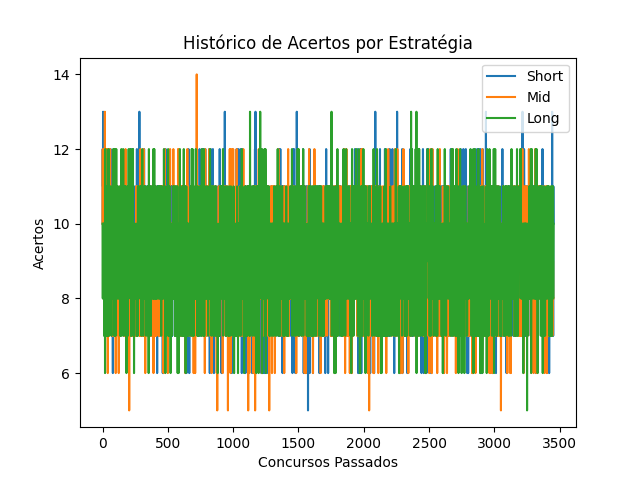
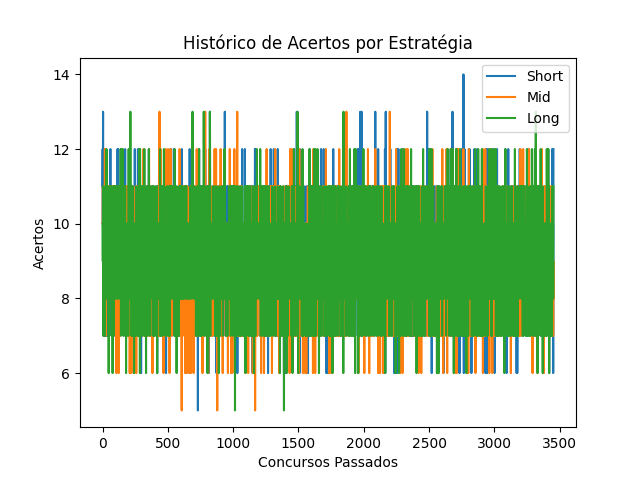
Atualiza relatório e gráficos da Lotofácil

Changed region(s): [[0.1562, 0.1562, 0.875, 0.4688], [0.1562, 0.625, 0.875, 0.875]]

diff --git a/Lotofacil/docs/index.md b/Lotofacil/docs/index.md
@@ -2,9 +2,9 @@
 1, 2, 3, 4, 5, 9, 10, 11, 12, 13, 14, 20, 22, 24, 25
 
 ## 🎯 Palpites Gerados
-- Curto Prazo (últimos 5): [1, 4, 6, 8, 9, 10, 11, 12, 13, 16, 19, 20, 23, 24, 25]
-- Médio Prazo (últimos 75): [1, 5, 6, 7, 8, 10, 11, 13, 14, 16, 17, 19, 20, 23, 24]
-- Longo Prazo (todos): [1, 2, 3, 4, 5, 10, 11, 12, 13, 14, 15, 20, 22, 24, 25]
+- Curto Prazo (últimos 5): [1, 2, 4, 5, 9, 10, 11, 12, 13, 16, 19, 20, 23, 24, 25]
+- Médio Prazo (últimos 75): [1, 2, 4, 5, 6, 8, 10, 11, 13, 14, 16, 17, 19, 20, 23]
+- Longo Prazo (todos): [1, 2, 3, 4, 9, 10, 11, 12, 13, 14, 19, 20, 22, 24, 25]
 
 ## 📊 Tabela Informacional
 |   Dezena |   Frequência (%) |   Média de Ocorrência |
